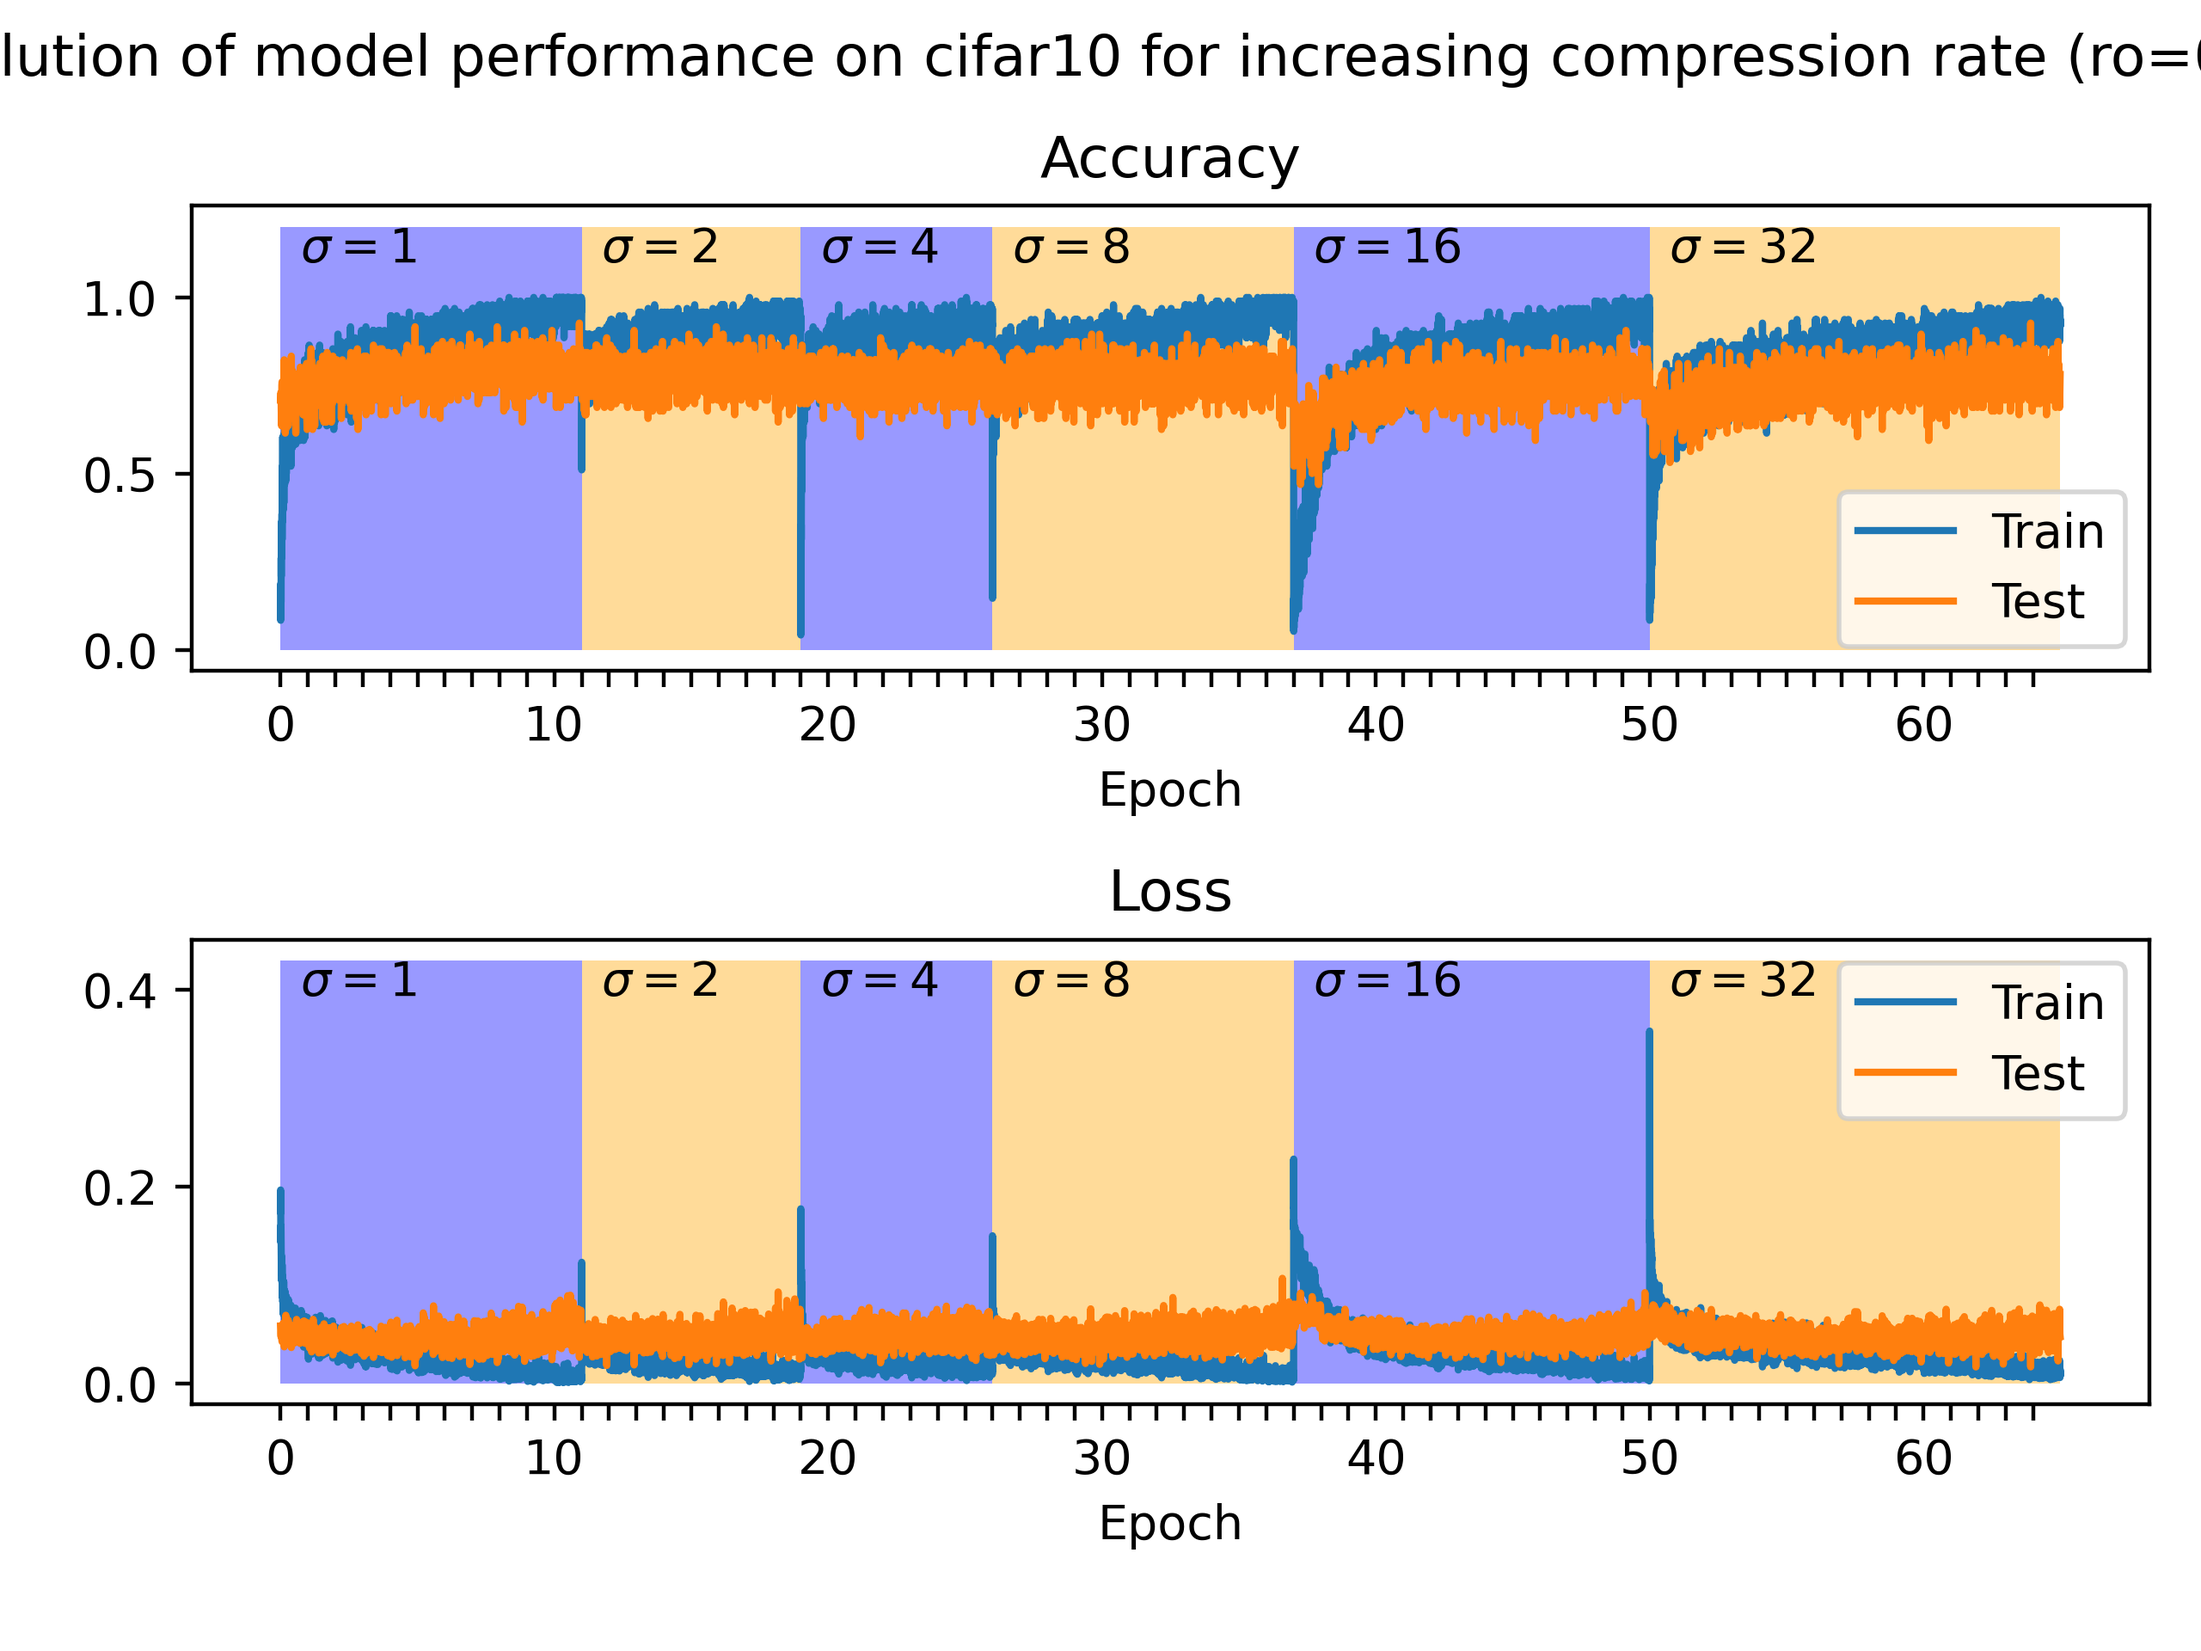
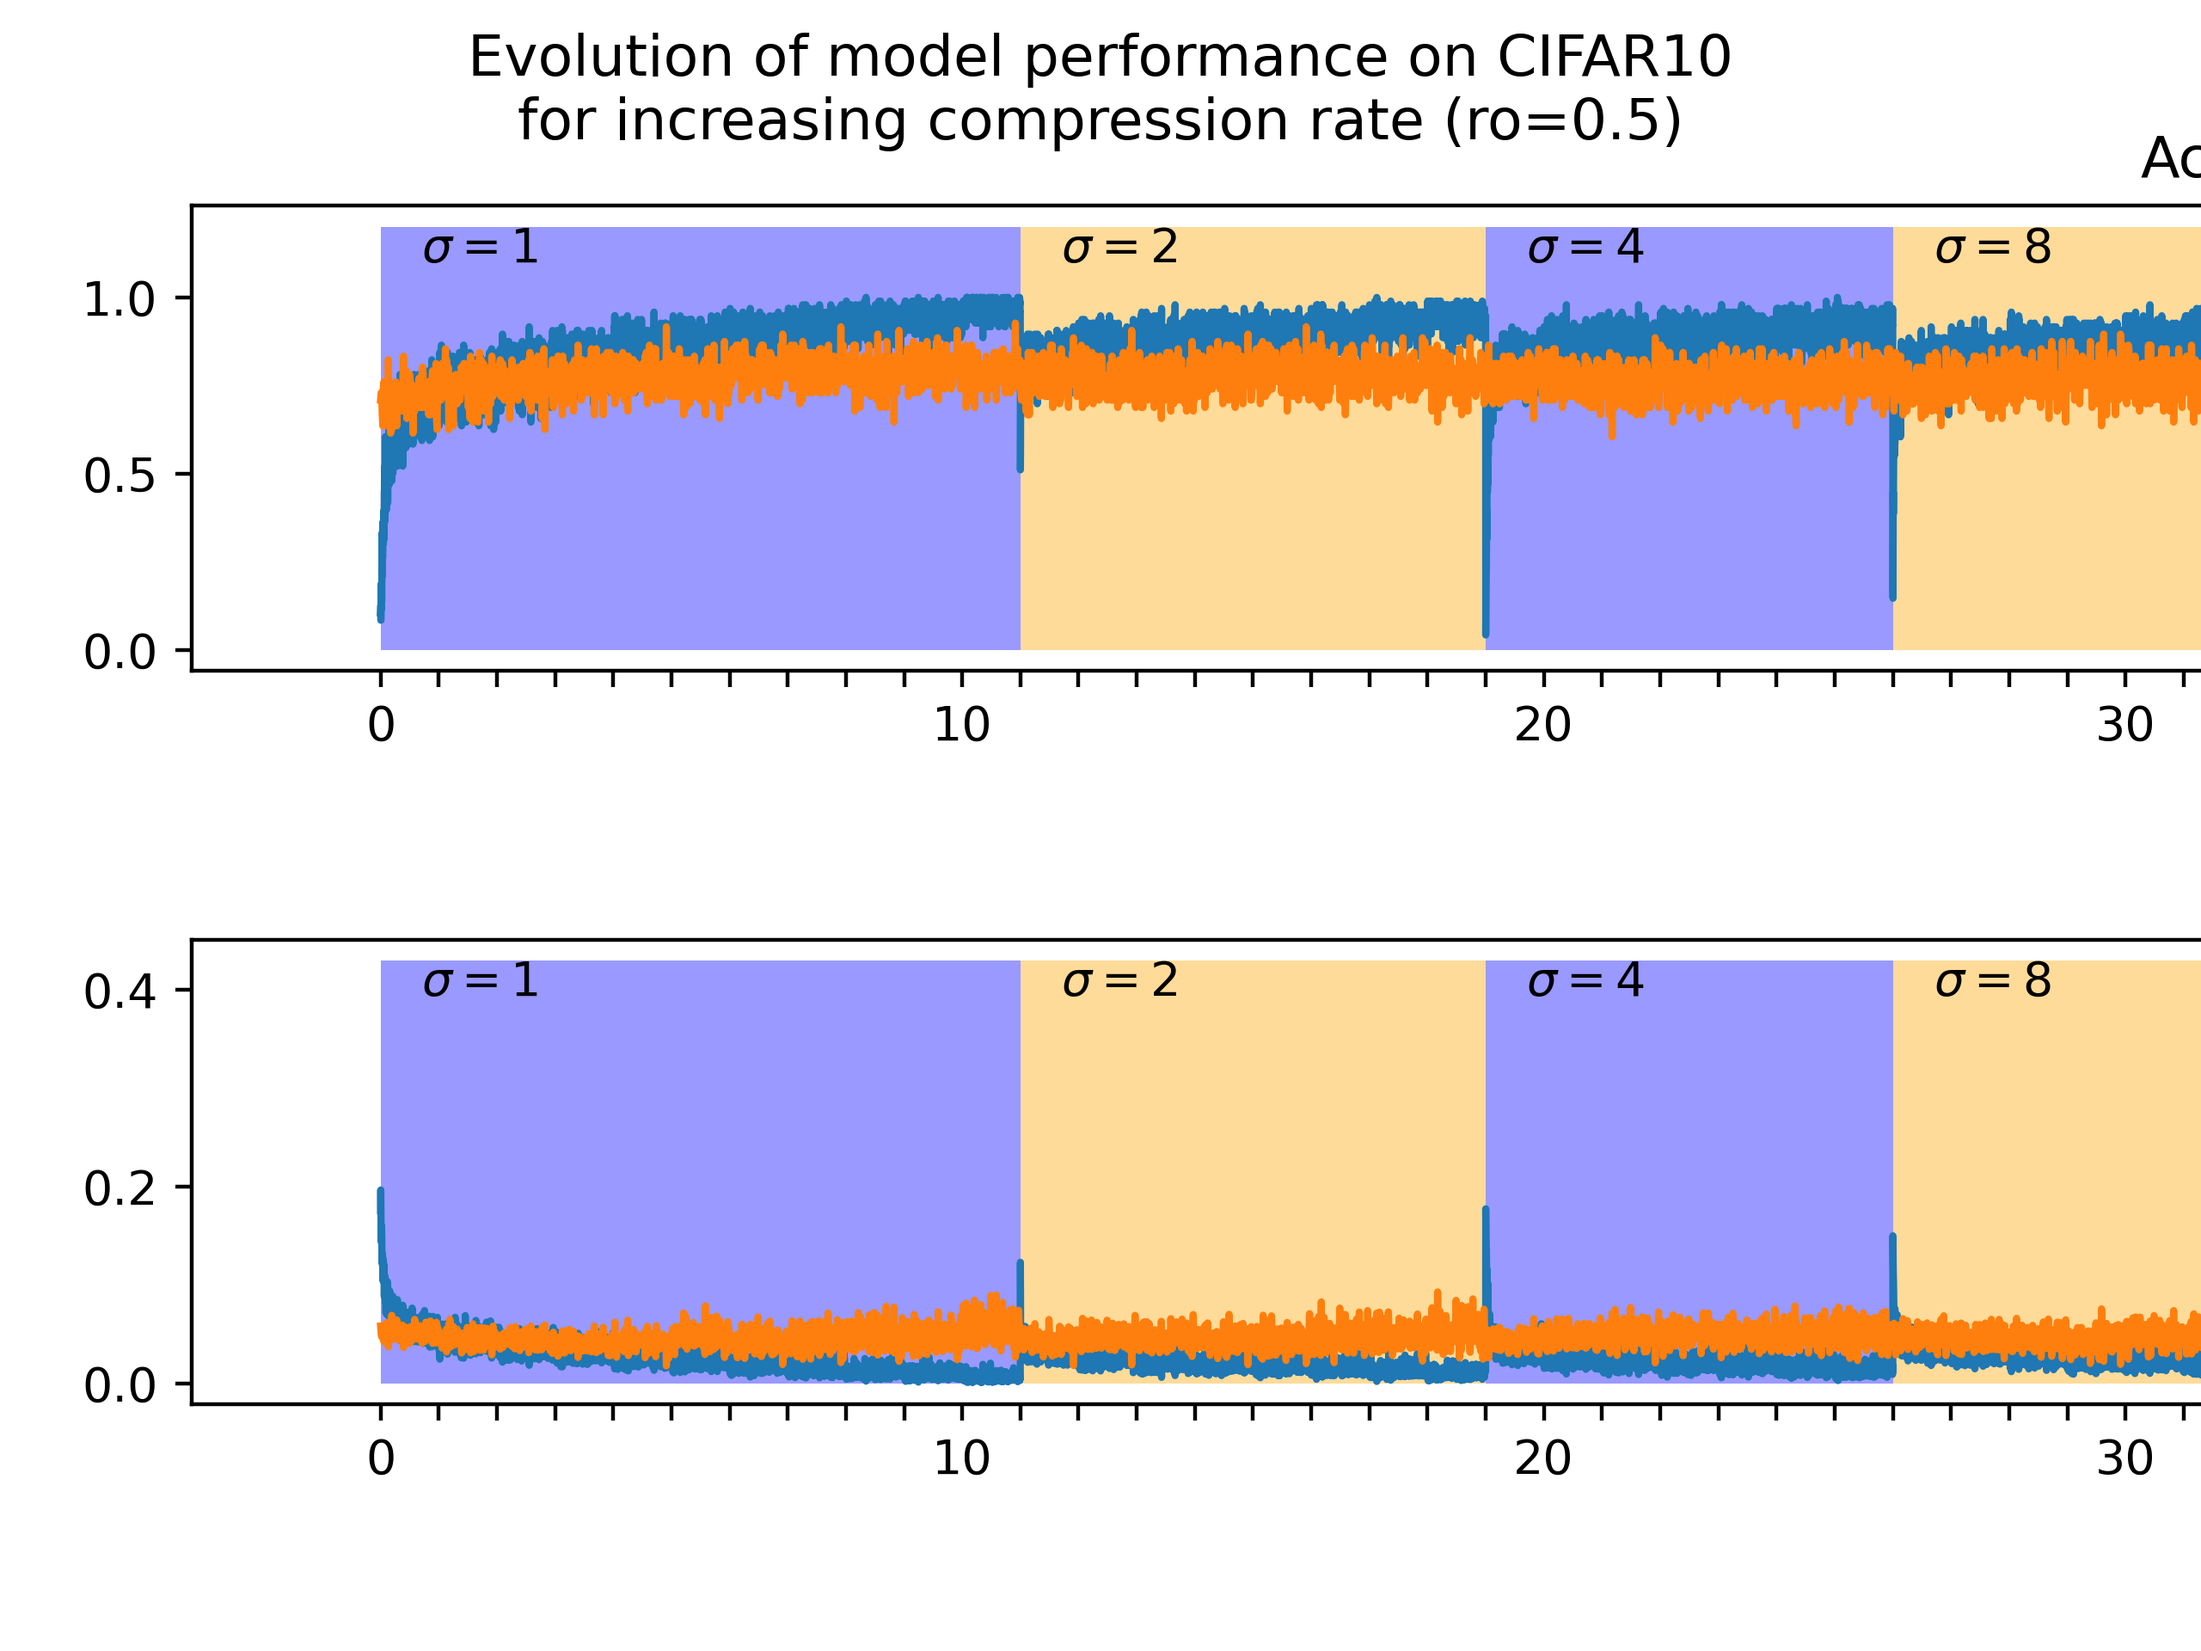
enum

diff --git a/src/viz.py b/src/viz.py
@@ -56,7 +56,7 @@ def visualize_loss_acc(opt, allLosses, allAccs, epochLengths, compRates = None):
 		ax.set_xticklabels([str(x) if x % 10 == 0 else "" for x in np.arange(xPrev)])
 		ax.set_xlabel("Epoch")
 
-	fig.tight_layout(rect=[0, 0.03, 2, 0.95])
+	fig.tight_layout(rect=[0, 0.03, 1, 1.95])
 	plt.suptitle("Evolution of model performance on " + opt.dsName.upper() + "\nfor increasing compression rate (ro="+str(opt.ro)+")")
 
 	saveFig(opt, "accLossThroughEpochs");
